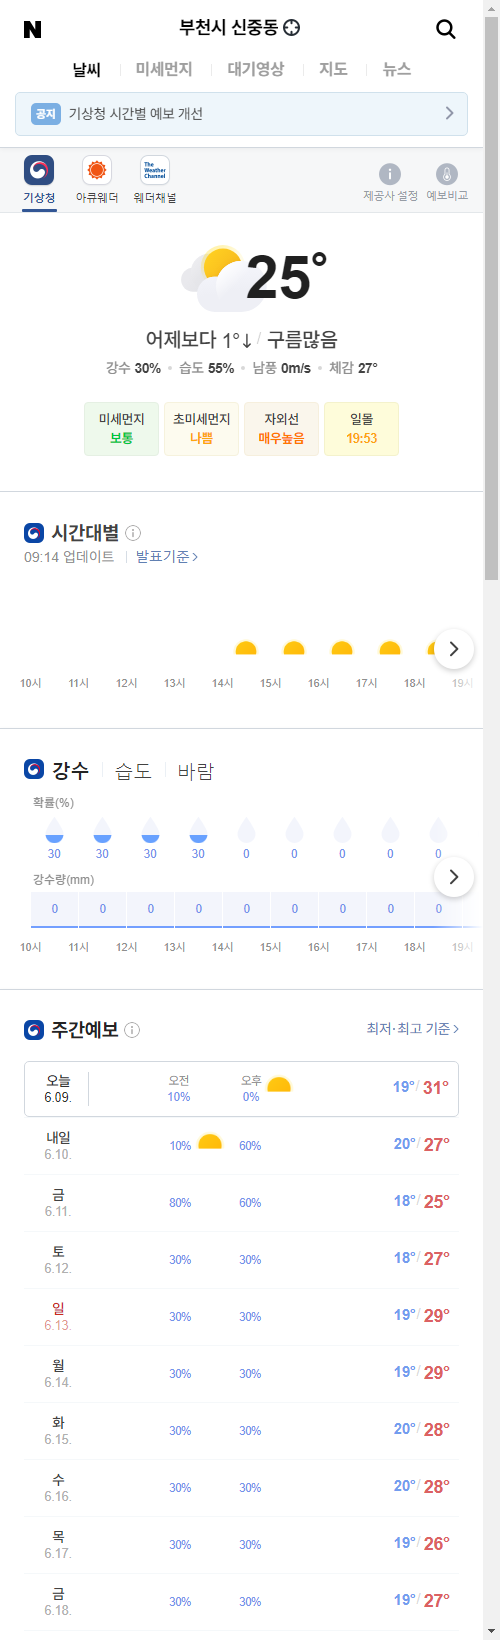
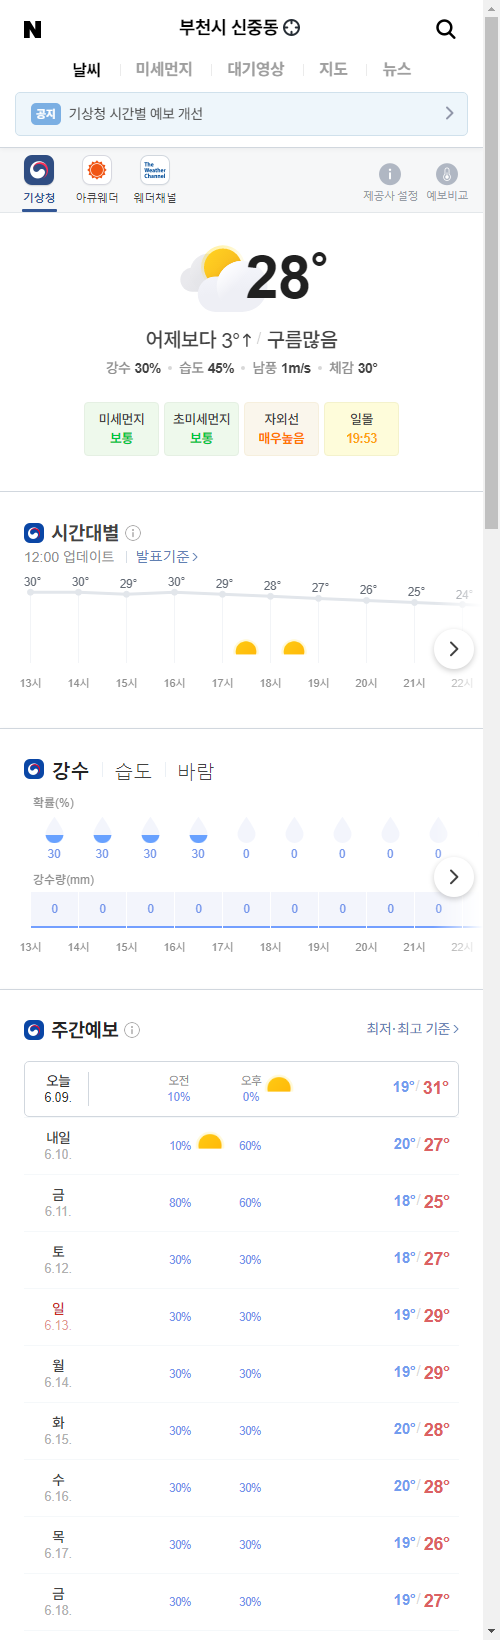
update result

diff --git a/README.md b/README.md
@@ -1,5 +1,5 @@
-##  2021-06-09 09:16:44   수요일 
-##### 날씨   -   어제보다 1° 낮아요구름많음  
+##  2021-06-09 12:07:27   수요일 
+##### 날씨   -   어제보다 3° 높아요구름많음  
 <center><img src="../img/naver_weather_week.png"></center>
 ----
 ----
@@ -16,14 +16,14 @@
 <tr align = "right" > <td>DOW</td><td>34,599.82</td><td>-30.42</td><td><font size="3" color="blue" >-0.09%</font></td><td><font size="3" color="black">0</font></td><td><font size="3" color="black">0</font></td><td>0</td>  </tr>
 <tr align = "right" > <td>NASDAQ</td><td>13,924.91</td><td>43.19</td><td><font size="3" color="red" >0.31%</font></td><td><font size="3" color="black">0</font></td><td><font size="3" color="black">0</font></td><td>0</td>  </tr>
 <tr align = "right" > <td>S&P</td><td>4,227.26</td><td>0.74</td><td><font size="3" color="red" >0.02%</font></td><td><font size="3" color="black">0</font></td><td><font size="3" color="black">0</font></td><td>0</td>  </tr>
-<tr align = "right" > <td>SHANHAI</td><td>3,580.11</td><td>-19.43</td><td><font size="3" color="blue" >-0.54%</font></td><td><font size="3" color="black">0</font></td><td><font size="3" color="black">0</font></td><td>0</td>  </tr>
+<tr align = "right" > <td>SHANHAI</td><td>3,588.23</td><td>8.13</td><td><font size="3" color="red" >0.23%</font></td><td><font size="3" color="black">0</font></td><td><font size="3" color="black">0</font></td><td>0</td>  </tr>
 <tr align = "right" > <td>INDIA</td><td>52,275.57</td><td>-52.94</td><td><font size="3" color="blue" >-0.1%</font></td><td><font size="3" color="black">0</font></td><td><font size="3" color="black">0</font></td><td>0</td>  </tr>
 </table>
 ----
 ##### 시장
 <table border="1" bordercolor="blue" align = "center" >
 <tr align = "right" > <td>Item</td><td>Price</td><td>Diff</td><td>Rate</td><td>Buy</td><td>Sell</td><td>...</td>  </tr>
-<tr align = "right" > <td>USD</td><td>1,118.0</td><td>2.0</td><td><font size="3" color="red">0.18%</font></td><td><font size="3" color="black">1,110</font></td><td><font size="3" color="black">0</font></td><td>0</td>  </tr>
+<tr align = "right" > <td>USD</td><td>1,115.0</td><td>-0.9</td><td><font size="3" color="blue">-0.08%</font></td><td><font size="3" color="black">1,110</font></td><td><font size="3" color="black">0</font></td><td>0</td>  </tr>
 <tr align = "right" > <td>WTI</td><td>70.05</td><td>0.82</td><td><font size="3" color="red">1.18%</font></td><td><font size="3" color="black">29.0</font></td><td><font size="3" color="black">0</font></td><td>0</td>  </tr>
 <tr align = "right" > <td>GOLD</td><td>1,892.0</td><td>-4.6</td><td><font size="3" color="blue">-0.24%</font></td><td><font size="3" color="black">0</font></td><td><font size="3" color="black">0</font></td><td>0</td>  </tr>
 </table>
@@ -31,26 +31,26 @@
 ##### 주가
 <table border="1" bordercolor="blue" align = "center" >
 <tr align = "right" > <td>Item</td><td>Price</td><td>Diff</td><td>Rate</td><td>Purchased</td><td>Sell</td><td>Buy</td>  </tr>
-<tr align = "right" > <td>한국 전력</td><td>26,550</td><td>250</td><td><font size="3" color="red">0.95%</font></td><td>25,720</td><td><font size="3" color="black">27,700</font></td><td><font size="3" color="black">20,700</font></td>  </tr>
-<tr align = "right" > <td>삼성엔지니어.</td><td>21,150</td><td>0</td><td><font size="3" color="black">0.0%</font></td><td>18,935</td><td><font size="3" color="black">20,000</font></td><td><font size="3" color="black">8,000</font></td>  </tr>
-<tr align = "right" > <td>CJ CGV</td><td>32,100</td><td>-50</td><td><font size="3" color="blue">-0.16%</font></td><td>34,895</td><td><font size="3" color="black">36,000</font></td><td><font size="3" color="black">0</font></td>  </tr>
-<tr align = "right" > <td>아모레퍼시픽</td><td>279,000</td><td>4,000</td><td><font size="3" color="red">1.45%</font></td><td>235,350</td><td><font size="3" color="black">240,000</font></td><td><font size="3" color="black">130,000</font></td>  </tr>
-<tr align = "right" > <td>한화</td><td>32,500</td><td>-100</td><td><font size="3" color="blue">-0.31%</font></td><td>25,550</td><td><font size="3" color="black">26,250</font></td><td><font size="3" color="black">26,250</font></td>  </tr>
-<tr align = "right" > <td>NAVER</td><td>361,000</td><td>-1,500</td><td><font size="3" color="blue">-0.41%</font></td><td>147,200</td><td><font size="3" color="black">386,000</font></td><td><font size="3" color="black">286,000</font></td>  </tr>
-<tr align = "right" > <td>LG 화학우</td><td>365,500</td><td>-2,000</td><td><font size="3" color="blue">-0.54%</font></td><td>202,490</td><td><font size="3" color="black">384,000</font></td><td><font size="3" color="orangered">384,000</font></td>  </tr>
-<tr align = "right" > <td>스튜디오드래.</td><td>94,800</td><td>-300</td><td><font size="3" color="blue">-0.32%</font></td><td>81,243</td><td><font size="3" color="black">85,200</font></td><td><font size="3" color="black">85,200</font></td>  </tr>
-<tr align = "right" > <td>QV미국IT</td><td>28,610</td><td>0</td><td><font size="3" color="black">0.0%</font></td><td>0</td><td><font size="3" color="black">30,000</font></td><td><font size="3" color="black">20,000</font></td>  </tr>
-<tr align = "right" > <td>삼성 전자우</td><td>74,000</td><td>-200</td><td><font size="3" color="blue">-0.27%</font></td><td>48,250</td><td><font size="3" color="black">56,000</font></td><td><font size="3" color="black">45,000</font></td>  </tr>
-<tr align = "right" > <td>LS</td><td>71,700</td><td>-1,000</td><td><font size="3" color="blue">-1.38%</font></td><td>71,900</td><td><font size="3" color="black">82,000</font></td><td><font size="3" color="black">60,000</font></td>  </tr>
-<tr align = "right" > <td>한화에어로스.</td><td>49,500</td><td>50</td><td><font size="3" color="red">0.1%</font></td><td>25,700</td><td><font size="3" color="black">30,000</font></td><td><font size="3" color="black">24,000</font></td>  </tr>
-<tr align = "right" > <td>카카오</td><td>129,500</td><td>1,000</td><td><font size="3" color="red">0.78%</font></td><td>405,500</td><td><font size="3" color="black">440,000</font></td><td><font size="3" color="orangered">400,000</font></td>  </tr>
-<tr align = "right" > <td>호텔 신라</td><td>98,800</td><td>1,300</td><td><font size="3" color="red">1.33%</font></td><td>72,800</td><td><font size="3" color="black">100,000</font></td><td><font size="3" color="black">70,000</font></td>  </tr>
-<tr align = "right" > <td>S-Oil</td><td>102,000</td><td>1,000</td><td><font size="3" color="red">0.99%</font></td><td>62,842</td><td><font size="3" color="black">100,000</font></td><td><font size="3" color="black">50,000</font></td>  </tr>
-<tr align = "right" > <td>LG전자</td><td>152,500</td><td>0</td><td><font size="3" color="black">0.0%</font></td><td>82,022</td><td><font size="3" color="black">100,000</font></td><td><font size="3" color="black">60,000</font></td>  </tr>
-<tr align = "right" > <td>KT&G</td><td>84,900</td><td>-100</td><td><font size="3" color="blue">-0.12%</font></td><td>80,400</td><td><font size="3" color="black">100,000</font></td><td><font size="3" color="black">70,000</font></td>  </tr>
-<tr align = "right" > <td>지역난방공사</td><td>45,950</td><td>0</td><td><font size="3" color="black">0.0%</font></td><td>43,590</td><td><font size="3" color="black">60,000</font></td><td><font size="3" color="black">30,000</font></td>  </tr>
-<tr align = "right" > <td>KOEDX은행</td><td>7,765</td><td>-35</td><td><font size="3" color="blue">-0.45%</font></td><td>5,178</td><td><font size="3" color="black">6,225</font></td><td><font size="3" color="black">6,225</font></td>  </tr>
-<tr align = "right" > <td>글로벌럭셔리</td><td>18,075</td><td>75</td><td><font size="3" color="red">0.42%</font></td><td>15,260</td><td><font size="3" color="black">20,000</font></td><td><font size="3" color="black">10,000</font></td>  </tr>
-<tr align = "right" > <td>한국금융지주</td><td>109,000</td><td>-1,000</td><td><font size="3" color="blue">-0.91%</font></td><td>0</td><td><font size="3" color="black">82,000</font></td><td><font size="3" color="black">60,000</font></td>  </tr>
+<tr align = "right" > <td>한국 전력</td><td>26,400</td><td>100</td><td><font size="3" color="red">0.38%</font></td><td>25,720</td><td><font size="3" color="black">27,700</font></td><td><font size="3" color="black">20,700</font></td>  </tr>
+<tr align = "right" > <td>삼성엔지니어.</td><td>21,200</td><td>50</td><td><font size="3" color="red">0.24%</font></td><td>18,935</td><td><font size="3" color="black">20,000</font></td><td><font size="3" color="black">8,000</font></td>  </tr>
+<tr align = "right" > <td>CJ CGV</td><td>32,200</td><td>50</td><td><font size="3" color="red">0.16%</font></td><td>34,895</td><td><font size="3" color="black">36,000</font></td><td><font size="3" color="black">0</font></td>  </tr>
+<tr align = "right" > <td>아모레퍼시픽</td><td>281,500</td><td>6,500</td><td><font size="3" color="red">2.36%</font></td><td>235,350</td><td><font size="3" color="black">240,000</font></td><td><font size="3" color="black">130,000</font></td>  </tr>
+<tr align = "right" > <td>한화</td><td>32,850</td><td>250</td><td><font size="3" color="red">0.77%</font></td><td>25,550</td><td><font size="3" color="black">26,250</font></td><td><font size="3" color="black">26,250</font></td>  </tr>
+<tr align = "right" > <td>NAVER</td><td>362,500</td><td>0</td><td><font size="3" color="black">0.0%</font></td><td>147,200</td><td><font size="3" color="black">386,000</font></td><td><font size="3" color="black">286,000</font></td>  </tr>
+<tr align = "right" > <td>LG 화학우</td><td>365,000</td><td>-2,500</td><td><font size="3" color="blue">-0.68%</font></td><td>202,490</td><td><font size="3" color="black">384,000</font></td><td><font size="3" color="orangered">384,000</font></td>  </tr>
+<tr align = "right" > <td>스튜디오드래.</td><td>94,600</td><td>-500</td><td><font size="3" color="blue">-0.53%</font></td><td>81,243</td><td><font size="3" color="black">85,200</font></td><td><font size="3" color="black">85,200</font></td>  </tr>
+<tr align = "right" > <td>QV미국IT</td><td>28,625</td><td>15</td><td><font size="3" color="red">0.05%</font></td><td>0</td><td><font size="3" color="black">30,000</font></td><td><font size="3" color="black">20,000</font></td>  </tr>
+<tr align = "right" > <td>삼성 전자우</td><td>74,400</td><td>200</td><td><font size="3" color="red">0.27%</font></td><td>48,250</td><td><font size="3" color="black">56,000</font></td><td><font size="3" color="black">45,000</font></td>  </tr>
+<tr align = "right" > <td>LS</td><td>72,000</td><td>-700</td><td><font size="3" color="blue">-0.96%</font></td><td>71,900</td><td><font size="3" color="black">82,000</font></td><td><font size="3" color="black">60,000</font></td>  </tr>
+<tr align = "right" > <td>한화에어로스.</td><td>50,100</td><td>650</td><td><font size="3" color="red">1.31%</font></td><td>25,700</td><td><font size="3" color="black">30,000</font></td><td><font size="3" color="black">24,000</font></td>  </tr>
+<tr align = "right" > <td>카카오</td><td>130,000</td><td>1,500</td><td><font size="3" color="red">1.17%</font></td><td>405,500</td><td><font size="3" color="black">440,000</font></td><td><font size="3" color="orangered">400,000</font></td>  </tr>
+<tr align = "right" > <td>호텔 신라</td><td>100,500</td><td>3,000</td><td><font size="3" color="red">3.08%</font></td><td>72,800</td><td><font size="3" color="black">100,000</font></td><td><font size="3" color="black">70,000</font></td>  </tr>
+<tr align = "right" > <td>S-Oil</td><td>105,000</td><td>4,000</td><td><font size="3" color="red">3.96%</font></td><td>62,842</td><td><font size="3" color="black">100,000</font></td><td><font size="3" color="black">50,000</font></td>  </tr>
+<tr align = "right" > <td>LG전자</td><td>151,500</td><td>-1,000</td><td><font size="3" color="blue">-0.66%</font></td><td>82,022</td><td><font size="3" color="black">100,000</font></td><td><font size="3" color="black">60,000</font></td>  </tr>
+<tr align = "right" > <td>KT&G</td><td>84,800</td><td>-200</td><td><font size="3" color="blue">-0.24%</font></td><td>80,400</td><td><font size="3" color="black">100,000</font></td><td><font size="3" color="black">70,000</font></td>  </tr>
+<tr align = "right" > <td>지역난방공사</td><td>46,200</td><td>250</td><td><font size="3" color="red">0.54%</font></td><td>43,590</td><td><font size="3" color="black">60,000</font></td><td><font size="3" color="black">30,000</font></td>  </tr>
+<tr align = "right" > <td>KOEDX은행</td><td>7,750</td><td>-50</td><td><font size="3" color="blue">-0.64%</font></td><td>5,178</td><td><font size="3" color="black">6,225</font></td><td><font size="3" color="black">6,225</font></td>  </tr>
+<tr align = "right" > <td>글로벌럭셔리</td><td>18,025</td><td>25</td><td><font size="3" color="red">0.14%</font></td><td>15,260</td><td><font size="3" color="black">20,000</font></td><td><font size="3" color="black">10,000</font></td>  </tr>
+<tr align = "right" > <td>한국금융지주</td><td>108,000</td><td>-2,000</td><td><font size="3" color="blue">-1.82%</font></td><td>0</td><td><font size="3" color="black">82,000</font></td><td><font size="3" color="black">60,000</font></td>  </tr>
 </table>
 ----
